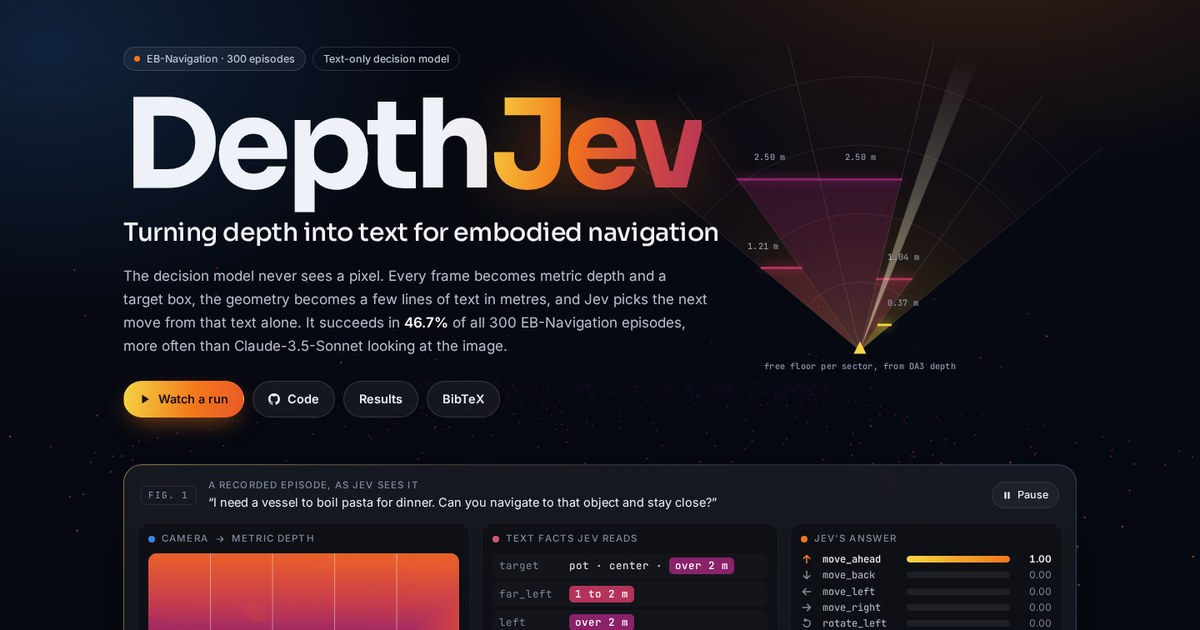
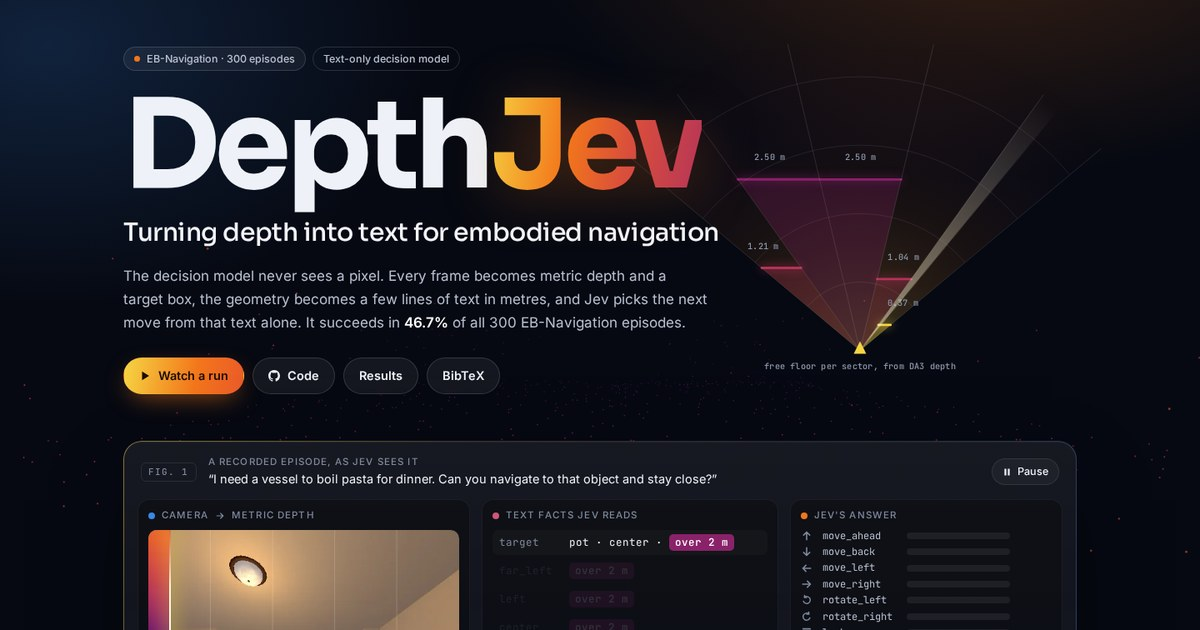
Report only DepthJev's own results on the project page

diff --git a/index.html b/index.html
@@ -8,7 +8,7 @@
 <meta property="og:type" content="website">
 <meta property="og:url" content="https://zjucqr.github.io/DepthJev/">
 <meta property="og:title" content="DepthJev: Turning Depth into Text for Embodied Navigation">
-<meta property="og:description" content="46.7% on all 300 EB-Navigation episodes with a decision model that reads only text, above Claude-3.5-Sonnet with images.">
+<meta property="og:description" content="46.7% on all 300 EB-Navigation episodes with a decision model that reads only text.">
 <meta property="og:image" content="https://zjucqr.github.io/DepthJev/media/og.jpg">
 <meta name="twitter:card" content="summary_large_image">
 <meta name="theme-color" content="#060912">
@@ -56,7 +56,7 @@
   <div class="wrap topbar-in">
     <a class="brand" href="#top" aria-label="DepthJev, back to top"><svg aria-hidden="true"><use href="#i-logo"/></svg>DepthJev</a>
     <nav aria-label="Sections">
-      <a href="#method">Method</a><a href="#results">Results</a><a href="#runs">Runs</a><a href="#all" class="nav-2">All 300</a><a href="#cite" class="nav-2">Cite</a>
+      <a href="#method">Method</a><a href="#runs">Runs</a><a href="#all">Results</a><a href="#cite" class="nav-2">Cite</a>
     </nav>
     <div class="topbar-actions">
       <button class="icon-btn" id="theme" type="button" aria-label="Switch between light and dark"><svg class="i-sun"><use href="#i-sun"/></svg><svg class="i-moon"><use href="#i-moon"/></svg></button>
@@ -74,11 +74,11 @@
       <p class="chip-row"><span class="chip"><i class="pulse"></i>EB-Navigation · 300 episodes</span><span class="chip ghost">Text-only decision model</span></p>
       <h1>Depth<span class="jev">Jev</span></h1>
       <p class="subtitle">Turning depth into text for embodied&nbsp;navigation</p>
-      <p class="lede">The decision model never sees a pixel. Every frame becomes metric depth and a target box, the geometry becomes a few lines of text in metres, and Jev picks the next move from that text alone. It succeeds in <b>46.7%</b> of all 300 EB-Navigation episodes, more often than Claude-3.5-Sonnet looking at the&nbsp;image.</p>
+      <p class="lede">The decision model never sees a pixel. Every frame becomes metric depth and a target box, the geometry becomes a few lines of text in metres, and Jev picks the next move from that text alone. It succeeds in <b>46.7%</b> of all 300 EB-Navigation&nbsp;episodes.</p>
       <div class="links">
         <a class="btn primary" href="#runs"><svg><use href="#i-play"/></svg>Watch a run</a>
         <a class="btn glass" href="https://github.com/ZJUCQR/DepthJev"><svg><use href="#i-github"/></svg>Code</a>
-        <a class="btn glass" href="#results">Results</a>
+        <a class="btn glass" href="#all">Results</a>
         <a class="btn glass" href="#cite">BibTeX</a>
       </div>
     </div>
@@ -122,7 +122,7 @@
 
     <div class="kpis" role="list">
       <div class="kpi" role="listitem"><b data-count="46.7" data-dec="1" data-suffix="%">46.7%</b><span>success on all 300 EB&#8209;Navigation episodes</span></div>
-      <div class="kpi" role="listitem"><b>3rd<small>/16</small></b><span>agents; both ahead of it see the image</span></div>
+      <div class="kpi" role="listitem"><b>263<small>/300</small></b><span>instructions read as the right object type</span></div>
       <div class="kpi" role="listitem"><b data-count="0" data-dec="0">0</b><span>images seen by Jev, the decision model: it reads only text facts, about 1.7k tokens per step</span></div>
       <div class="kpi" role="listitem"><b data-count="0.76" data-dec="2" data-suffix=" s">0.76 s</b><span>per step on one H100: depth, detection, decision</span></div>
     </div>
@@ -192,24 +192,9 @@
   </div>
 </section>
 
-<section class="sec" id="results">
-  <div class="wrap">
-    <header class="sec-head"><span class="sec-num" aria-hidden="true">02</span><div><p class="kicker">Results</p><h2>Third of sixteen, without the image</h2><p class="sec-lede">EB-Navigation success rate of 16 agents. The baselines come from Table 3 of the EmbodiedBench paper, and all of them except text-only GPT-4o see the image. DepthJev's decision model reads only the text&nbsp;facts.</p></div></header>
-    <figure class="card" id="board-fig">
-      <div class="chart-head">
-        <b id="board-title">Average over 300 episodes</b>
-        <div class="pills" role="group" aria-label="Subset" id="board-pills"></div>
-      </div>
-      <div class="board" id="board" role="list"></div>
-      <div class="legend"><span><i class="sw sw-ours"></i>DepthJev, text facts only</span><span><i class="sw sw-base"></i>Baseline with the image</span><span><i class="tag-mini">text only</i>Baseline without the image</span></div>
-      <details class="table-view"><summary>Show as a table</summary><div class="table-scroll" id="board-table"></div></details>
-    </figure>
-  </div>
-</section>
-
 <section class="sec" id="runs">
   <div class="wrap">
-    <header class="sec-head"><span class="sec-num" aria-hidden="true">03</span><div><p class="kicker">Examples</p><h2>Six runs, replayed step by step</h2><p class="sec-lede">The frame the robot saw, the depth DA3 measured, the box OWLv2 found, the facts Jev read and the action it chose, all recorded during the full evaluation. The top-down path is rebuilt from the actions and matches the simulator's distance to the target at every step. Runs play on their own; click any action to&nbsp;inspect&nbsp;it.</p></div></header>
+    <header class="sec-head"><span class="sec-num" aria-hidden="true">02</span><div><p class="kicker">Examples</p><h2>Six runs, replayed step by step</h2><p class="sec-lede">The frame the robot saw, the depth DA3 measured, the box OWLv2 found, the facts Jev read and the action it chose, all recorded during the full evaluation. The top-down path is rebuilt from the actions and matches the simulator's distance to the target at every step. Runs play on their own; click any action to&nbsp;inspect&nbsp;it.</p></div></header>
     <div class="cases" id="cases" role="group" aria-label="Recorded runs"></div>
     <div class="theater card" id="theater">
       <div class="th-stage">
@@ -241,7 +226,7 @@
 
 <section class="sec" id="all">
   <div class="wrap">
-    <header class="sec-head"><span class="sec-num" aria-hidden="true">04</span><div><p class="kicker">Every episode</p><h2>All 300 episodes at a glance</h2><p class="sec-lede">EB-Navigation asks for the same 60 scenes and targets in five instruction styles, so each column below is one scene and target, and each square is one episode. Twelve scenes are solved under all five instructions and 22 under none: the scene decides more than the&nbsp;wording.</p></div></header>
+    <header class="sec-head"><span class="sec-num" aria-hidden="true">03</span><div><p class="kicker">Results</p><h2>All 300 episodes at a glance</h2><p class="sec-lede">EB-Navigation asks for the same 60 scenes and targets in five instruction styles, so each column below is one scene and target, and each square is one episode. Twelve scenes are solved under all five instructions and 22 under none: the scene decides more than the&nbsp;wording.</p></div></header>
     <div class="filters" id="all-pills" role="group" aria-label="Instruction style"></div>
     <figure class="card atlas-fig">
       <div class="atlas-wrap">
@@ -261,7 +246,7 @@
 
 <section class="sec" id="speed">
   <div class="wrap">
-    <header class="sec-head"><span class="sec-num" aria-hidden="true">05</span><div><p class="kicker">Latency</p><h2>Fast enough for a robot</h2><p class="sec-lede">Mean server time per step on one H100. The three models run one after the other, and Jev's answer is a network request. Three runs sharing one GPU still finish a step in about a&nbsp;second.</p></div></header>
+    <header class="sec-head"><span class="sec-num" aria-hidden="true">04</span><div><p class="kicker">Latency</p><h2>Fast enough for a robot</h2><p class="sec-lede">Mean server time per step on one H100. The three models run one after the other, and Jev's answer is a network request. Three runs sharing one GPU still finish a step in about a&nbsp;second.</p></div></header>
     <figure class="card" id="latency-fig">
       <div class="legend legend-top" id="latency-legend"></div>
       <div class="latency" id="latency"></div>
@@ -273,7 +258,7 @@
 
 <section class="sec" id="failures">
   <div class="wrap">
-    <header class="sec-head"><span class="sec-num" aria-hidden="true">06</span><div><p class="kicker">Limits</p><h2>Where it fails</h2><p class="sec-lede">160 episodes end without reaching the target. The largest group starts in perception: the target is rarely detected, or another object is taken for&nbsp;it.</p></div></header>
+    <header class="sec-head"><span class="sec-num" aria-hidden="true">05</span><div><p class="kicker">Limits</p><h2>Where it fails</h2><p class="sec-lede">160 episodes end without reaching the target. The largest group starts in perception: the target is rarely detected, or another object is taken for&nbsp;it.</p></div></header>
     <div class="fail-grid">
       <figure class="card"><div class="fails" id="fails"></div></figure>
       <ul class="notes">
@@ -310,7 +295,7 @@
         </ul>
       </div>
     </div>
-    <p class="provenance">All DepthJev numbers come from one full EB-Navigation run (300 episodes) on an H100; baselines are Table 3 of the EmbodiedBench paper. Frames, boxes, facts and Jev's probabilities are the recorded ones. The depth maps shown here were recomputed on CPU with DepthJev's own DA3 pipeline and agree with the recorded free-space measurements within 2&nbsp;cm. Top-down paths are rebuilt from the actions on AI2-THOR's 0.1&nbsp;m grid and reproduce the simulator's distance to the target at every step.</p>
+    <p class="provenance">All DepthJev numbers come from one full EB-Navigation run (300 episodes) on an H100. Frames, boxes, facts and Jev's probabilities are the recorded ones. The depth maps shown here were recomputed on CPU with DepthJev's own DA3 pipeline and agree with the recorded free-space measurements within 2&nbsp;cm. Top-down paths are rebuilt from the actions on AI2-THOR's 0.1&nbsp;m grid and reproduce the simulator's distance to the target at every step.</p>
     <p class="foot-links"><a class="brand" href="#top"><svg aria-hidden="true"><use href="#i-logo"/></svg>DepthJev</a><span>Apache-2.0</span><a href="https://github.com/ZJUCQR/DepthJev"><svg><use href="#i-github"/></svg>ZJUCQR/DepthJev</a></p>
   </div>
 </footer>

diff --git a/assets/site.js b/assets/site.js
@@ -508,78 +508,7 @@
   }
 
   // =====================================================================================================
-  // 02: leaderboard
-  // =====================================================================================================
-  const BOARD = [
-    ["GPT-4o", "image", [57.7, 55.0, 60.0, 58.3, 60.0, 55.0]],
-    ["GPT-4o-mini", "image", [32.8, 31.7, 33.3, 35.0, 28.3, 33.3]],
-    ["Claude-3.5-Sonnet", "image", [44.7, 66.7, 51.7, 41.7, 36.7, 26.7]],
-    ["Gemini-1.5-Pro", "image", [24.3, 23.3, 25.0, 25.0, 28.3, 20.0]],
-    ["Gemini-2.0-flash", "image", [48.7, 63.3, 65.0, 50.0, 51.7, 13.3]],
-    ["Gemini-1.5-flash", "image", [41.7, 56.7, 50.0, 46.7, 50.0, 5.0]],
-    ["GPT-4o", "text", [17.4, 21.7, 21.7, 26.7, 16.7, 0.0]],
-    ["GPT-4o-mini", "text", [8.3, 3.3, 13.3, 10.0, 15.0, 0.0]],
-    ["Llama-3.2-90B-Vision-Ins", "image", [30.0, 48.3, 23.3, 38.3, 33.3, 6.7]],
-    ["Llama-3.2-11B-Vision-Ins", "image", [21.4, 23.3, 21.7, 26.7, 18.3, 17.0]],
-    ["InternVL2.5-78B", "image", [30.7, 36.7, 38.3, 33.3, 21.7, 23.3]],
-    ["InternVL2.5-38B", "image", [30.3, 35.0, 28.3, 38.3, 26.7, 23.3]],
-    ["InternVL2.5-8B", "image", [21.3, 35.0, 23.3, 21.7, 26.7, 0.0]],
-    ["Qwen2-VL-72B-Ins", "image", [21.2, 26.7, 30.0, 28.3, 16.0, 5.0]],
-    ["Qwen2-VL-7B-Ins", "image", [14.0, 26.7, 10.0, 15.0, 15.0, 3.3]],
-    ["DepthJev", "ours", [46.7, 53.3, 51.7, 50.0, 36.7, 41.7]],
-  ];
-  const BOARD_COLS = ["Average", "Base", "Common sense", "Complex instruction", "Visual appearance", "Long horizon"];
-
-  function initBoard() {
-    const board = $("#board"), pills = $("#board-pills"), title = $("#board-title");
-    let col = 0, shown = false;
-    const rows = BOARD.map(([name, kind, vals]) => {
-      const bar = h("div", { class: "bar" }), val = h("span", { class: "val" }), rk = h("span", { class: "rk" }), badge = kind === "ours" ? h("span", { class: "badge" }) : null;
-      const el = h("div", { class: "row" + (kind === "ours" ? " ours" : ""), role: "listitem" },
-        h("div", { class: "nm" }, rk, h("span", { text: name }), kind === "text" ? h("i", { class: "tag-mini", text: "text only" }) : null, badge),
-        h("div", { class: "trk" }, bar, val));
-      const row = { el, bar, val, rk, badge, name, kind, vals };
-      el.addEventListener("pointermove", (e) => showTip([h("div", { class: "tv", text: vals[col].toFixed(1) + "%" }), h("div", { text: name + (kind === "text" ? " · text only" : kind === "ours" ? " · text facts only" : " · image + text") }), h("div", { class: "tl", text: BOARD_COLS[col] + " · rank " + rank(row, col) + " of 16" })], e.clientX, e.clientY));
-      el.addEventListener("pointerleave", hideTip);
-      board.append(el);
-      return row;
-    });
-    const rank = (row, c) => 1 + rows.filter((r) => r.vals[c] > row.vals[c]).length;
-    BOARD_COLS.forEach((c, i) => {
-      const b = h("button", { class: "pill", type: "button", "aria-pressed": String(i === 0), text: c });
-      b.addEventListener("click", () => { $$(".pill", pills).forEach((x) => x.setAttribute("aria-pressed", String(x === b))); select(i); });
-      pills.append(b);
-    });
-    function select(c) {
-      col = c;
-      title.textContent = BOARD_COLS[c] + (c === 0 ? " over 300 episodes" : " · 60 episodes");
-      const first = new Map(rows.map((r) => [r, r.el.getBoundingClientRect().top]));
-      const order = rows.slice().sort((a, b) => b.vals[c] - a.vals[c] || (a.kind === "ours" ? -1 : b.kind === "ours" ? 1 : 0));
-      order.forEach((r) => board.append(r.el));
-      order.forEach((r) => {
-        const rk = rank(r, c), tied = rows.some((o) => o !== r && o.vals[c] === r.vals[c]);
-        r.rk.textContent = rk;
-        if (r.badge) r.badge.textContent = "#" + rk + (tied ? " tied" : "");
-        r.val.textContent = r.vals[c].toFixed(1);
-        const w = shown ? (r.vals[c] / 70) * 100 + "%" : "0%";
-        r.bar.style.width = w;
-        r.bar.parentNode.style.setProperty("--w", w);
-        if (!reduced && first.size) {
-          const dy = first.get(r) - r.el.getBoundingClientRect().top;
-          if (dy) { r.el.style.transition = "none"; r.el.style.transform = `translateY(${dy}px)`; requestAnimationFrame(() => requestAnimationFrame(() => { r.el.style.transition = "transform .7s cubic-bezier(.22,1,.36,1)"; r.el.style.transform = ""; })); }
-        }
-      });
-    }
-    select(0);
-    whenVisible(board, () => { shown = true; select(col); }, 0.2);
-    // table view
-    $("#board-table").append(h("table", { class: "data-table" },
-      h("thead", null, h("tr", null, h("th", { text: "Agent" }), h("th", { text: "Reads" }), BOARD_COLS.map((c) => h("th", { text: c })))),
-      h("tbody", null, BOARD.slice().sort((a, b) => b[2][0] - a[2][0]).map(([n, kind, v]) => h("tr", { class: kind === "ours" ? "ours" : null }, h("td", { text: n }), h("td", { text: kind === "image" ? "image + text" : kind === "text" ? "text" : "text facts" }), v.map((x) => h("td", { text: x.toFixed(1) })))))));
-  }
-
-  // =====================================================================================================
-  // 03: six runs, replayed
+  // 02: six runs, replayed
   // =====================================================================================================
   function initTheater(runs) {
     const cases = $("#cases"), view = $("#th-view"), rgb = $("#th-rgb"), dep = $("#th-depth"), ov = $("#th-overlay");
@@ -729,7 +658,7 @@
   }
 
   // =====================================================================================================
-  // 04: all 300 episodes
+  // 03: all 300 episodes
   // =====================================================================================================
   function initAll(runs, featuredIds, theater) {
     const atlas = $("#atlas"), side = $("#atlas-side"), pills = $("#all-pills"), cv = $("#curves"), sub = $("#curves-sub");
@@ -885,7 +814,7 @@
   }
 
   // =====================================================================================================
-  // 05: latency
+  // 04: latency
   // =====================================================================================================
   function initLatency(st) {
     const parts = [["depth", "DA3 depth", "s-depth"], ["detect", "OWLv2 detection", "s-det"], ["jev", "Jev decision", "s-jev"], ["rest", "Rest of the step", "s-rest"]];
@@ -919,7 +848,7 @@
   }
 
   // =====================================================================================================
-  // 06: failures; copy buttons, KPIs, the hero field
+  // 05: failures; copy buttons, KPIs, the hero field
   // =====================================================================================================
   function initFails() {
     const F = [["Target rarely detected or wrongly identified", 51], ["Sidestepping left and right without progress", 40], ["Stuck against an obstacle", 32], ["Distance underestimated or a false detection", 27], ["Other", 10]];
@@ -1025,7 +954,6 @@
   }
 
   // ---------- start ----------
-  initBoard();
   initFails();
   initCopy();
   initKPIs();

diff --git a/assets/site.css b/assets/site.css
@@ -319,7 +319,7 @@ figcaption b { color: var(--ink); font-weight: 600; }
 .chart-head { display: flex; flex-wrap: wrap; justify-content: space-between; align-items: center; gap: 12px; margin-bottom: 18px; }
 .chart-head > b { font: 600 15px/1.3 var(--display); letter-spacing: -.01em; }
 .chart-sub { font-size: 13px; color: var(--muted); }
-.pills, .filters { display: flex; flex-wrap: wrap; gap: 6px; }
+.filters { display: flex; flex-wrap: wrap; gap: 6px; }
 .filters { margin-bottom: 14px; }
 .pill { height: 32px; padding: 0 13px; border-radius: 999px; border: 1px solid var(--rule); background: var(--card); color: var(--ink-2); font: 500 12.5px/1 var(--sans); cursor: pointer; transition: background-color .2s, color .2s, border-color .2s; }
 .pill:hover { border-color: color-mix(in srgb, var(--accent) 45%, var(--rule)); }
@@ -328,11 +328,10 @@ figcaption b { color: var(--ink); font-weight: 600; }
 .legend > span { display: inline-flex; align-items: center; gap: 7px; }
 .legend-top { margin: 0 0 16px; }
 .sw { display: inline-block; width: 12px; height: 12px; border-radius: 3px; }
-.sw-ours { background: var(--accent); } .sw-base { background: var(--base-bar); } .sw-ok { background: var(--good); } .sw-fail { background: var(--fail-cell); border: 1px solid var(--axis); }
+.sw-ok { background: var(--good); } .sw-fail { background: var(--fail-cell); border: 1px solid var(--axis); }
 .lg-ic { width: 12px; height: 12px; color: var(--ink-2); margin-left: -3px; }
 .ln { display: inline-block; width: 18px; height: 0; border-top: 2px solid; }
 .ln-ok { border-color: var(--good); } .ln-fail { border-color: var(--base-bar); } .ln-thr { border-color: var(--ink-2); border-top-width: 1px; }
-.tag-mini { display: inline-block; padding: 2px 6px; border-radius: 5px; border: 1px solid var(--axis); font: 500 10.5px/1.2 var(--mono); font-style: normal; color: var(--ink-2); }
 .table-view { margin-top: 16px; border-top: 1px solid var(--rule); padding-top: 12px; }
 .table-view summary { cursor: pointer; font: 500 13px/1.2 var(--sans); color: var(--ink-2); width: fit-content; }
 .table-scroll { overflow-x: auto; margin-top: 12px; }
@@ -340,25 +339,6 @@ figcaption b { color: var(--ink); font-weight: 600; }
 .data-table th, .data-table td { padding: 7px 10px; border-bottom: 1px solid var(--rule); text-align: right; white-space: nowrap; }
 .data-table th:first-child, .data-table td:first-child { text-align: left; }
 .data-table thead th { font-weight: 600; color: var(--ink-2); font-size: 12px; }
-.data-table tr.ours td { font-weight: 600; color: var(--ink); background: var(--accent-soft); }
-
-/* leaderboard */
-.board { display: grid; gap: 4px; position: relative; }
-.row { display: grid; grid-template-columns: minmax(150px, 230px) minmax(0, 1fr); gap: 14px; align-items: center; min-height: 30px; padding: 2px 6px; border-radius: 8px; font-size: 14px; will-change: transform; }
-.row:hover { background: var(--card-2); }
-.row .nm { display: flex; align-items: center; gap: 8px; min-width: 0; color: var(--ink-2); }
-.row .nm span:first-child { white-space: nowrap; overflow: hidden; text-overflow: ellipsis; }
-.row .rk { flex: none; min-width: 1.8em; font: 500 11.5px/1 var(--mono); color: var(--muted); }
-.row .trk { position: relative; height: 18px; }
-.row .bar { position: absolute; left: 0; top: 0; bottom: 0; width: 0; border-radius: 0 4px 4px 0; background: var(--base-bar); transition: width .8s var(--ease), background-color .3s; }
-.row .val { position: absolute; top: 50%; left: calc(var(--w, 0%) + 8px); transform: translateY(-50%); font-variant-numeric: tabular-nums; color: var(--ink); font-weight: 500; font-size: 13.5px; transition: left .8s var(--ease); }
-.row .trk { margin-right: 3.4em; }
-.row.ours { background: var(--accent-soft); }
-.row.ours .nm { color: var(--ink); font-weight: 600; }
-.row.ours .bar { background: linear-gradient(90deg, #f6d543, var(--accent) 55%); box-shadow: 0 0 22px -4px color-mix(in srgb, var(--accent) 70%, transparent); }
-.row.ours .rk { color: var(--accent-ink); font-weight: 600; }
-.row .badge { flex: none; padding: 2px 7px; border-radius: 999px; background: var(--accent); color: #1a0d03; font: 600 11px/1.3 var(--sans); }
-@media (max-width: 560px) { .row { grid-template-columns: 128px minmax(0, 1fr); gap: 8px; font-size: 12.5px; } .row .tag-mini { display: none; } }
 
 /* recorded runs */
 .cases { display: grid; grid-template-columns: repeat(6, minmax(0, 1fr)); gap: 10px; margin-bottom: 14px; }
